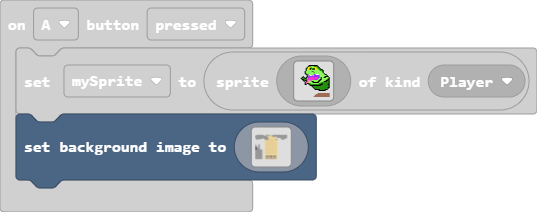
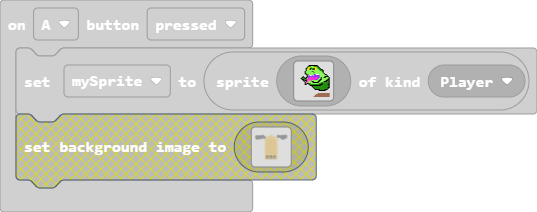
Update main.blocks, main.ts, images.g.jres, images.g.ts

Changed region(s): [[0.0298, 0.5377, 0.5959, 0.9057]]

diff --git a/images.g.ts b/images.g.ts
@@ -416,126 +416,126 @@ ddd1111111115511111111155ee55111111155ee551111111111155d11111111
 `;
             case "Nb|_1Q+X~?sJp4q)0%ma":
             case "apartment":return img`
-...........dddddddddddddddddddddddddddddd..........ddddddddddddddddddddd8d8ddd88888ddd8d8dddddddddddddddddddddddddddddddddddddddddddddddddddddd.ddddddddddddddd.
-.....dddd..ddddddddddddddddddddddddddddddd.........ddddddddddddddddddddd88888888888888888ddddddddddddddddddddddddddddddddddddddddddddddddddddddddddddddddddddddd
-...dddddddddddddddddddddddddddddddddddddddd........ddddddddddddddddddddd88999999999999dddddddddddddddddddddddddddddddddddddddddddddddddddddddddddddddddddddddddd
-...ddddddddddddddddddddddddddddddddddddddddd...........dddddd.dd....dddd8888888888888ddddddddddddddddddddddddddddddddddddddddddddddddddddddddddddddddddddddddddd
-.dddddddddddddddddddddddddddddddddddddddddddd............ddd..........dd888888888888dddddddddddddddddddddddddddddddddddddddddddddddddddddddddddddddddddddddddddd
-dddddddddddddddddddddddddddddddddddddddddddddd...ddddddd...............d888888888888dddddddddddddddd.ddddddddddddddddddddddddddddddddddddddddddddddddddddddddddd
-ddddddddddddddddddddddddddddddddddddddddddddddddddddddddd..b...b.....888888888888888dddddddddddddd..b.ddddd.dddddddddddddddddddddddddddddddddddddddddddddddddddd
-ddddddddddddddddddddddddddddddddddddddddddddddddddddddddddb8b.b8b....8888888888888888ddddddd...b8b.b8b......dddddddddddddddddddddddddddddddddddddddddddddddddddd
-ddddddddddddddddddddddddddddddddddddddddddddddddddddddddddb8b.b8b....88888888888888888dddd8....b8b.b8b......dddddddddddddddddddddddddddddddddddddddddddddddddddd
-ddddddddddddddddddddddddddddddddddddddddddddddddddddddddddb8b.b8b....999999999999999999dd99....b8b.b8b......dddddddddddddddddddddddddddddddddddddddddddddddddddd
-ddddddddddddddddddddddddddddddddddddddddddddddddddddddddddb8b8b8b888888888888888888888888888888b8b8b8b.......ddddddddddddddddddddddddddddddddddddddddddddddddddd
-ddddddddddddddddddddddddddddddddddddddddddddddddddddddddddb8b8b8b888888888888888888888888888888b8b8b8b.......ddddddddddddddddddddddddddddddddddddddddddddddddddd
-ddddddddddddddddddddddddddddddddddddddddddddddddddddddddddddddddb888888888888888888888888888888b8b8b8b........dddddddddddddddddddddddddddddddddddddddddddddddddd
-ddddddddddddddddddddddddddddddddddddddddddddddddddddddddddddddddd8888888888888888888888888888888b888b8..........ddddddd...dddddddddddddddddddddddddddddddddddddd
-.ddddddddddddddddddddddddddddddddddddddddddddddddddddddddddddddddd888888888888888888888888888888888888.....................dddddddddddddddddddddddddddddddddddd.
-.dddddddddddddddddddddddddddddddddddddddddddddddddddddddddddddddddd88888888888888888888888888888888888.........................ddddddddddddddddddddddddddddddd..
-.ddddddddddddddddddddddddddddddddddddddd..ddddddddddddddddddddddddd88888888888888888888888888888888888..........................dddddddddddddddddddddddddddd....
-..dddddddddddddddddddddddddddddddd.........dddddddddddddddddddddddd88888888888888888888888888888888888..........................ddddddddddddddddddddd...........
-....ddddddddddddddddd.ddddddddddd...........ddddddddddddddddddddddd88888888888888888888888888888888888...........................ddddddddddddddddddd............
-....ddddddddddddddddd...ddd.ddd................dddddddddddddddddddd88888888888888888888888888888888888...b...b....................ddddddddddddddddd.............
-.....ddddddddddddddd............................ddddddddddddddddddd88888888888888888888888888888888888..b8b.b8b....................ddddddddddddddd..............
-......ddddddddddddd.............................b8b.b8ddddddddddddd88888888888888888888888888888888888..b8b.b8b.....................ddddddddddddd...............
-.........dddddddd...............................b8b.b8bddddddddddd999999999999999999999999999999999999..b8b.b8b.......................ddddddddd.................
-................................................b8b8b8b8ddddddddd888888888888888888888888888888888888888b8b8b8b.................................................
-................................................b8b8b8b88ddddddd8888888888888888888888888888888888888888b8b8b8b.................................................
-................................................b8b8b8b8888888888888888888888888888888888888888888888888b8b8b8b.................................................
-................................................8b888b888888888888999999888889999998888889999988888888888b888b8.................................................
-................................................888888888888888888999999888889999998888889999988888888888888888.................................................
-................................................888888888888888888999999888889999998888889999988888888888888888.................................................
-................................................888888888888888888999999888889999998888889999988888888888888888.................................................
-................................................888888888888888888999999888889999998888889999988888888888888888.................................................
-................................................888888888888888888999999888889999998888889999988888888888888888.................................................
-................................................888888888888888888888888888888888888888888888888888888888888888.................................................
-................................................888888888888888888888888888888888888888888888888888888888888888.................................................
-................................................888888888888888888888888888888888888888888888888888888888888888.................................................
-................................................888888888888888888888888888888888888888888888888888888888888888.................................................
-................................................888888888888888888888888888888888888888888888888888888888888888.................................................
-................................................888888889999988888999999888889999998888889999988888899999888888.................................................
-................................................888888889999988888999999888889999998888889999988888899999888888.................................................
-................................................888888889999988888999999888889999998888889999988888899999888888.................................................
-................................................888888889999988888999999888889999998888889999988888899999888888.................................................
-................................................888888889999988888999999888889999998888889999988888899999888888.................................................
-................................................888888889999988888999999888889999998888889999988888899999888888.................................................
-................................................888888888888888888888888888888888888888888888888888888888888888.................................................
-...................d............................888888888888888888888888888888888888888888888888888888888888888.................................................
-d.................dd............................888888888888888888888888888888888888888888888888888888888888888.................................................
-dd................ddd...........................888888888888888888888888888888888888888888888888888888888888888.................................................
-dd................ddd...........................888888888888888888888888888888888888888888888888888888888888888.................................................
-ddd..............dddd...........................888888888888888888888888888888888888888888888888888888888888888.................................................
-ddd..............ddddd..........................888888889999988888999999888889999998888889999988888899999888888.................................................
-dddd.............ddddd..........................888888889999988888999999888889999998888889999988888899999888888.................................................
-ddddd...........ddddddd.........................888888889999988888999999888889999998888889999988888899999888888.................................................
-ddddd...........ddddddd.........................888888889999988888999999888889999998888889999988888899999888888.................................................
-dddddd..........ddddddd.........................888888889999988888999999888889999998888889999988888899999888888.................................................
-dddddd..........ddddddd.........................888888889999988888999999888889999998888889999988888899999888888.................................................
-ddddddd.........ddddddd.........................888888888888888888888888888888888888888888888888888888888888888.................................................
-ddddddd.........ddddddd.........................888888888888888888888888888888888888888888888888888888888888888.................................................
-dddddddd........ddddddd.........................888888888888888888888888888888888888888888888888888888888888888.................................................
-dddddddd........ddddddd.........................888888888888888888888888888888888888888888888888888888888888888.................................................
-55555dddd.......ddddddd.........................888888888888888888888888888888888888888888888888888888888888888.................................................
-5555555ddd......ddddddd.........................888888888888888888888888888888888888888888888888888888888888888.................................................
-55555555dd......ddddddd.........................888888888888888888888888888888888888888888888888888888888888888.................................................
-5555d555ddd.....ddddddd.........................888888889999988888999999888889999998888889999988888899999888888.................................................
-dd5555555dd.....ddddddd.........................888888889999988888999999888889999998888889999988888899999888888.................................................
-55d555d55ddd....ddddddd.........................888888889999988888999999888889999998888889999988888899999888888.................................................
-555d55555ddd....ddddddd.........................888888889999988888999999888889999998888889999988888899999888888.................................................
-555d55555dddd...ddddddd.........................888888889999988888999999888889999998888889999988888899999888888.................................................
-555d55555dddd...ddddddd.........................888888889999988888999999888889999998888889999988888899999888888.................................................
-55d555555ddddd..ddddddd.........................888888888888888888888888888888888888888888888888888888888888888.................................................
-dd5555555dddddd.ddddddd.........................888888888888888888888888888888888888888888888888888888888888888.................................................
-55555555ddddddd.ddddddd.........................888888888888888888888888888888888888888888888888888888888888888.................................................
-55555555ddddddddddddddd.........................888888888888888888888888888888888888888888888888888888888888888.................................................
-5555555dddddddddddddddd.........................888888888888888888888888888888888888888888888888888888888888888.................................................
-55555dddddddddddddddddddddddddddddd.............888888889999988888999999888889999998888889999988888899999888888.................................................
-ddddddddddddddddddddddddddddddddddd.............888888889999988888999999888889999998888889999988888899999888888.................................................
-ddddddddddddddddddddddddddddddddddd.............888888889999988888999999888889999998888889999988888899999888888.................................................
-ddddddddddddddddddddddddddddddddddd.............888888889999988888999999888889999998888889999988888899999888888.................................................
-ddddddddddddddddddddddddddddddddddd.............888888889999988888999999888889999998888889999988888899999888888.................................................
-ddddddddddddddddddddddddddddddddddd.............888888889999988888999999888889999998888889999988888899999888888.................................................
-ddddddddddddddddddddddddddddddddddd.............888888888888888888888888888888888888888888888888888888888888888.................................................
-ddddddddddddddddddddddddddddddddddd.............888888888888888888888888888888888888888888888888888888888888888.................................................
-ddddddddddddddddddddddddddddddddddd.............888888888888888888888888888888888888888888888888888888888888888.................................................
-ddddddddddddddddddddddddddddddddddd.............888888888888888888888888888888888888888888888888888888888888888.................................................
-ddddddddddddddddddddddddddddddddddd.............888888888888888888888888888888888888888888888888888888888888888.................................................
-ddddddddddddddddddddddddddddddddddd.............888888888888888888888888888888888888888888888888888888888888888.................................................
-ddddddddddddddddddddddddddddddddddd.............888888889999988888999999888889999998888889999988888899999888888.................................................
-ddddddddddddddddddddddddddddddddddd.............888888889999988888999999888889999998888889999988888899999888888.................................................
-ddddddddddddddddddddddddddddddddddd.............888888889999988888999999888889999998888889999988888899999888888.................................................
-ddddddddddddddddddddddddddddddddddd.............888888889999988888999999888889999998888889999988888899999888888.................................................
-ddddddddddddddddddddddddddddddddddd.............888888889999988888999999888889999998888889999988888899999888888.................................................
-ddddddddddddddddddddddddddddddddddd.............888888889999988888999999888889999998888889999988888899999888888.................................................
-ddddddddddddddddddddddddddddddddddd.............888888888888888888888888888888888888888888888888888888888888888.................................................
-ddddddddddddddddddddddddddddddddddd.............888888888888888888888888888888888888888888888888888888888888888.................................................
-ddddddddddddddddddddddddddddddddddd.............888888888888888888888888888888888888888888888888888888888888888.................................................
-ddddddddddddddddddddddddddddddddddd.............888888888888888888888888888888888888888888888888888888888888888.................................................
-ddddddddddddddddddddddddddddddddddd.............888888888888888888888888888888888888888888888888888888888888888.................................................
-ddddddddddddddddddddddddddddddddddd.............888888888888888888888888888888888888888888888888888888888888888.................................................
-ddddddddddddddddddddddddddddddddddd.............888888888888888888888888888888888888888888888888888888888888888.................................................
-ddddddddddddddddddddddddddddddddddd.............888888888888888888888888888888888888888888888888888888888888888.................................................
-ddddddddddddddddddddddddddddddddddd.............888888888888888888888888888888888888888888888888888888888888888.................................................
-ddddddddddddddddddddddddddddddddddd.............8888888888888dd8888888888888888dd8888888888888888dd888888888888.................................................
-ddddddddddddddddddddddddddddddddddd.............888888888d88dddd88d88888888d88dddd88d888888888d8dddd8d888888888.................................................
-ddddddddddddddddddddddddddddddddddd.............88888888dddddddddddd888888dddddddddddd8888888dddddddddd88888888.................................................
-ddddddddddddddddddddddddddddddddddd.............88888888dddddddddddd888888dddddddddddd8888888dddddddddd88888888.................................................
-ddddddddddddddddddddddddddddddddddd.............8888888dddddddddddddd8888dddddddddddddd88888dddddddddddd8888888.................................................
-ddddddddddddddddddddddddddddddddddd.............88888ddddddddddddddddd8dddddddddddddddddd8dddddddddddddddd88888.................................................
-ddddddddddddddddddddddddddddddddddd.............8888ddddddddddddddddddddddddddddddddddddddddddddddddddddddd8888.................................................
-ddddddddddddddddddddddddddddddddddd.............888888855555555555558888855555555555558888855555555555558888888.................................................
-ddddddddddddddddddddddddddddddddddd.............888888859999959999958888859999959999958888859999959999958888888.................................................
-ddddddddddddddddddddddddddddddddddd.............888888859999959999958888859999959999958888859999959999958888888.................................................
-ddddddddddddddddddddddddddddddddddd.............888888859999959999958888859999959999958888859999959999958888888.................................................
-ddddddddddddddddddddddddddddddddddd.............888888859999959999958888859999959999958888859999959999958888888.................................................
-ddddddddddddddddddddddddddddddddddd.............888888859999959999958888859999959999958888859999959999958888888.................................................
-ddddddddddddddddddddddddddddddddddd.............888888859999959999958888859999959999958888859999959999958888888.................................................
-ddddddddddddddddddddddddddddddddddd.............888888859999959999958888859999959999958888859999959999958888888.................................................
-ddddddddddddddddddddddddddddddddddd.............888888859999959999958888859999959999958888859999959999958888888.................................................
-ddddddddddddddddddddddddddddddddddd.............888888859999959999958888859999959999958888859999959999958888888.................................................
-ddddddddddddddddddddddddddddddddddd.............888888859999959999958888859999959999958888859999959999958888888.................................................
-ddddddddddddddddddddddddddddddddddd.............888888859999959999958888859999959999958888859999959999958888888.................................................
-ddddddddddddddddddddddddddddddddddd.............888888859999959999958888859999959999958888859999959999958888888.................................................
[120 lines of base64/hex data omitted]
 `;
         }
         return null;

diff --git a/main.ts b/main.ts
@@ -1,5 +1,4 @@
 let mySprite: Sprite = null
 controller.A.onEvent(ControllerButtonEvent.Pressed, function () {
     mySprite = sprites.create(assets.image`slimer`, SpriteKind.Player)
-    scene.setBackgroundImage(assets.image`apartment`)
 })
